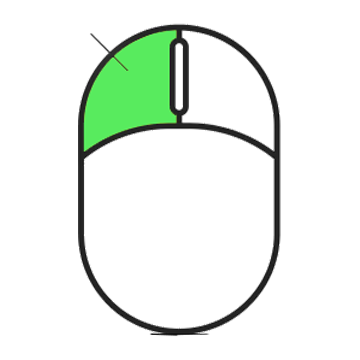
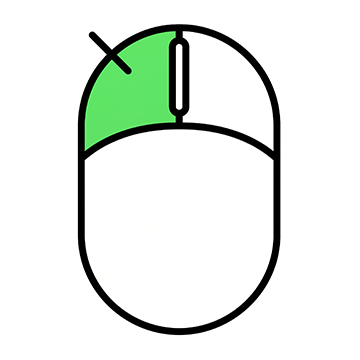
Adicionado portas no experimento do room preparation

Changed region(s): [[0.2139, 0.0611, 0.7944, 0.9472]]

diff --git a/src/mission/agent_dispatcher.py b/src/mission/agent_dispatcher.py
@@ -66,6 +66,16 @@ class AgentMissionDispatcher:
         if all(robot.state == RobotState.ACTING for robot in self.active_task.robots):
             self._update_action(delta_time)
 
+    def reset(self) -> None:
+        """Reinicia a fila da missão e o estado lógico do domínio."""
+        reset_domain = getattr(self.domain, "reset", None)
+        if callable(reset_domain):
+            reset_domain()
+        self.next_task_index = 0
+        self.active_task = None
+        self.completed = False
+        self.error_message = None
+
     def _start_next_task(self) -> None:
         if self.next_task_index >= len(self.task_keys):
             self.completed = True
@@ -78,17 +88,39 @@ class AgentMissionDispatcher:
         if errors or not robots:
             self._block("; ".join(errors) or "sem robôs elegíveis")
             return
+        self.active_task = ActiveTask(task_key, bound_task.task, robots)
+        self._move_to_current_action_target()
+
+    def _move_to_current_action_target(self) -> None:
+        """Leva os robôs ao ponto exigido pela ação atual da tarefa."""
+        assert self.active_task is not None
+        bound_task = self.bound_mission.tasks[self.active_task.task_key]
         location = self.environment.get_location_by_name(bound_task.location_name or "")
         if location is None:
             self._block(f"local indisponível: {bound_task.location_name}")
             return
 
-        self.active_task = ActiveTask(task_key, bound_task.task, robots)
-        for position_index, robot in enumerate(robots):
+        action = self.active_task.task.actions[self.active_task.action_index]
+        target = location
+        destination_name = location.name
+        if action.name == "open-door":
+            door_approach = self.environment.get_door_approach(location.name)
+            corridor = (
+                self.environment.get_location(pygame.Vector2(door_approach)) if door_approach is not None else None
+            )
+            if corridor is None:
+                self._block(f"porta sem acesso configurado: {location.name}")
+                return
+            target = Location(f"Porta de {location.name}", corridor.color, door_approach)
+            destination_name = target.name
+
+        for position_index, robot in enumerate(self.active_task.robots):
             robot.state = RobotState.MOVING
-            robot.current_task = f"Ir para {location.name}"
-            target = self._formation_target(location, position_index, len(robots), robot)
-            self.navigations[robot.label].set_target(target)
+            robot.current_task = f"Ir para {destination_name}"
+            formation_target = self._formation_target(
+                target, position_index, len(self.active_task.robots), robot
+            )
+            self.navigations[robot.label].set_target(formation_target)
 
     def _update_movement(self, delta_time: float) -> None:
         assert self.active_task is not None
@@ -132,7 +164,7 @@ class AgentMissionDispatcher:
             return
         self.active_task.action_index += 1
         if self.active_task.action_index < len(self.active_task.task.actions):
-            self._start_action()
+            self._move_to_current_action_target()
             return
         for robot in self.active_task.robots:
             robot.state = RobotState.IDLE
@@ -157,7 +189,7 @@ class AgentMissionDispatcher:
         for offset_x, offset_y in ordered_offsets:
             candidate = (location.center[0] + offset_x, location.center[1] + offset_y)
             same_location = self.environment.get_location(pygame.Vector2(candidate))
-            if same_location == location and self.environment.is_walkable(*candidate, robot.radius):
+            if same_location and same_location.color == location.color and self.environment.is_walkable(*candidate, robot.radius):
                 return Location(location.name, location.color, candidate)
         return location
 

diff --git a/src/scenarios.py b/src/scenarios.py
@@ -1,6 +1,6 @@
 """Catálogo de cenários disponíveis no simulador."""
 
-from dataclasses import dataclass
+from dataclasses import dataclass, field
 
 
 @dataclass(frozen=True)
@@ -29,6 +29,8 @@ class Scenario:
     robots: tuple[RobotDefinition, ...]
     location_aliases: dict[str, str]
     role_aliases: dict[str, tuple[str, ...]]
+    door_approaches: dict[str, tuple[int, int]] = field(default_factory=dict)
+    door_positions: dict[str, tuple[int, int]] = field(default_factory=dict)
 
 
 HOSPITAL_SCENARIO_1 = Scenario(
@@ -46,10 +48,10 @@ HOSPITAL_SCENARIO_1 = Scenario(
     wall_color=(52, 73, 94),
     accent_color=(190, 210, 220),
     robots=(
-        RobotDefinition("A-1", "Limpador", (120, 120), (52, 152, 219), frozenset({"cleaning", "door-opening", "sanitize"})),
-        RobotDefinition("A-2", "Limpador", (260, 120), (52, 152, 219), frozenset({"cleaning", "door-opening", "sanitize"})),
-        RobotDefinition("B-1", "Organizador", (120, 220), (155, 89, 182), frozenset({"moveobject"})),
-        RobotDefinition("B-2", "Organizador", (260, 220), (155, 89, 182), frozenset({"moveobject"})),
+        RobotDefinition("A-1", "Limpador", (70, 393), (52, 152, 219), frozenset({"cleaning", "door-opening", "sanitize"})),
+        RobotDefinition("A-2", "Limpador", (115, 393), (52, 152, 219), frozenset({"cleaning", "door-opening", "sanitize"})),
+        RobotDefinition("B-1", "Organizador", (160, 393), (155, 89, 182), frozenset({"moveobject"})),
+        RobotDefinition("B-2", "Organizador", (205, 393), (155, 89, 182), frozenset({"moveobject"})),
     ),
     location_aliases={
         "RoomA": "RoomA",
@@ -58,6 +60,18 @@ HOSPITAL_SCENARIO_1 = Scenario(
         "SanitizationRoom": "SanitizationRoom",
     },
     role_aliases={"CleanerRobot": ("Limpador",), "robotteam": ("Organizador",)},
+    door_approaches={
+        "RoomA": (320, 393),
+        "RoomB": (960, 393),
+        "RoomC": (320, 393),
+        "SanitizationRoom": (960, 393),
+    },
+    door_positions={
+        "RoomA": (320, 340),
+        "RoomB": (960, 340),
+        "RoomC": (320, 460),
+        "SanitizationRoom": (960, 460),
+    },
 )
 
 HOSPITAL_SCENARIO_2 = Scenario(
@@ -69,12 +83,14 @@ HOSPITAL_SCENARIO_2 = Scenario(
     wall_color=(52, 73, 94),
     accent_color=(190, 210, 220),
     robots=(
-        RobotDefinition("A-1", "Limpador", (120, 120), (52, 152, 219), frozenset({"cleaning", "door-opening", "sanitize"})),
-        RobotDefinition("A-2", "Limpador", (260, 120), (52, 152, 219), frozenset({"cleaning", "door-opening", "sanitize"})),
-        RobotDefinition("B-1", "Organizador", (120, 220), (155, 89, 182), frozenset({"moveobject"})),
+        RobotDefinition("A-1", "Limpador", (70, 393), (52, 152, 219), frozenset({"cleaning", "door-opening", "sanitize"})),
+        RobotDefinition("A-2", "Limpador", (115, 393), (52, 152, 219), frozenset({"cleaning", "door-opening", "sanitize"})),
+        RobotDefinition("B-1", "Organizador", (160, 393), (155, 89, 182), frozenset({"moveobject"})),
     ),
     location_aliases=HOSPITAL_SCENARIO_1.location_aliases,
     role_aliases=HOSPITAL_SCENARIO_1.role_aliases,
+    door_approaches=HOSPITAL_SCENARIO_1.door_approaches,
+    door_positions=HOSPITAL_SCENARIO_1.door_positions,
 )
 
 FARM = Scenario(

diff --git a/src/simulator.py b/src/simulator.py
@@ -57,6 +57,8 @@ class Simulator:
                 self.running = False
             elif event.type == pygame.KEYDOWN and event.key == pygame.K_ESCAPE:
                 self.running = False
+            elif event.type == pygame.KEYDOWN and event.key == pygame.K_r:
+                self._reset()
             elif event.type == pygame.KEYDOWN and event.key == pygame.K_UP:
                 self._select_robot(-1)
             elif event.type == pygame.KEYDOWN and event.key == pygame.K_DOWN:
@@ -81,6 +83,17 @@ class Simulator:
 
     def _erase_injected_obstacle(self, position: tuple[int, int]) -> None:
         self.environment.remove_injected_obstacle(position)
+
+    def _reset(self) -> None:
+        """Restaura robôs, rotas, bloqueios e missão ao estado inicial."""
+        self.environment.clear_injected_obstacles()
+        for robot, navigation in zip(self.robots, self.navigations):
+            robot.reset()
+            navigation.reset()
+        self.selected_robot_index = 0
+        self.simulation_speed_index = self.SIMULATION_SPEEDS.index(1.0)
+        if self.mission_dispatcher is not None:
+            self.mission_dispatcher.reset()
 
     @staticmethod
     def _load_control_icons(asset_directory: Path) -> dict[str, pygame.Surface]:
@@ -155,6 +168,7 @@ class Simulator:
 
     def _render(self) -> None:
         self.environment.draw(self.screen)
+        self._draw_doors()
         for robot, navigation in zip(self.robots, self.navigations):
             target = navigation.target
             target_point = pygame.Vector2(target.center) if target else None
@@ -166,6 +180,20 @@ class Simulator:
         self._draw_mission_status()
         self._draw_controls_hint()
         pygame.display.flip()
+
+    def _draw_doors(self) -> None:
+        """Desenha portas verdes (abertas) ou vermelhas (fechadas) no mapa."""
+        if self.mission_dispatcher is None:
+            return
+        is_door_open = getattr(self.mission_dispatcher.domain, "is_door_open", None)
+        if not callable(is_door_open):
+            return
+        for room_name, position in self.environment.scenario.door_positions.items():
+            color = (46, 204, 113) if is_door_open(room_name) else (231, 76, 60)
+            door = pygame.Rect(0, 0, 42, 14)
+            door.center = position
+            pygame.draw.rect(self.screen, color, door, border_radius=3)
+            pygame.draw.rect(self.screen, (52, 73, 94), door, 2, border_radius=3)
 
     def _draw_location_label(self) -> None:
         location = self.environment.get_location(self.selected_robot.position)
@@ -205,7 +233,7 @@ class Simulator:
     def _draw_controls_hint(self) -> None:
         text_color = (20, 35, 45)
         fragments: list[pygame.Surface] = [
-            self.font.render(f"Velocidade: {self.simulation_speed:g}x ", True, text_color),
+            self.font.render(f"R: Resetar | Velocidade: {self.simulation_speed:g}x ", True, text_color),
             self.control_icons["left"],
             self.control_icons["right"],
             self.font.render(" | Trocar robô: ", True, text_color),

diff --git a/src/domains/hospital/domain.py b/src/domains/hospital/domain.py
@@ -18,11 +18,21 @@ class HospitalMissionDomain:
     """Executa somente as regras que pertencem ao Hospital."""
 
     def __init__(self, world_knowledge: WorldKnowledge) -> None:
-        self.rooms = {
+        self._initial_rooms = {
             name: HospitalRoomState(room.is_clean, room.is_prepared, room.door_open)
             for name, room in world_knowledge.rooms.items()
         }
+        self.rooms: dict[str, HospitalRoomState] = {}
         self.robot_sanitized: dict[str, bool] = {}
+        self.reset()
+
+    def reset(self) -> None:
+        """Restaura as condições iniciais das salas e dos robôs."""
+        self.rooms = {
+            name: HospitalRoomState(room.is_clean, room.is_prepared, room.door_open)
+            for name, room in self._initial_rooms.items()
+        }
+        self.robot_sanitized.clear()
 
     def validate_task(self, task: MissionTask, robot_labels: tuple[str, ...]) -> list[str]:
         errors = []
@@ -69,6 +79,11 @@ class HospitalMissionDomain:
             f"{name}: clean={state.is_clean}, prepared={state.is_prepared}, door_open={state.door_open}"
             for name, state in self.rooms.items()
         ]
+
+    def is_door_open(self, room_name: str) -> bool:
+        """Informa se a porta da sala está aberta para a visualização."""
+        room = self.rooms.get(room_name)
+        return room.door_open if room is not None else False
 
     def _evaluate_predicate(self, predicate: str, robot_labels: tuple[str, ...]) -> bool:
         negated = predicate.startswith("not ")

diff --git a/src/environment.py b/src/environment.py
@@ -235,6 +235,11 @@ class Environment:
         self._refresh_injected_obstacles()
         return True
 
+    def clear_injected_obstacles(self) -> None:
+        """Remove todos os bloqueios temporários criados durante a simulação."""
+        self.injected_obstacles.clear()
+        self._refresh_injected_obstacles()
+
     def _refresh_injected_obstacles(self) -> None:
         """Reconstrói a colisão dinâmica sem modificar a máscara original."""
         self.collision_mask = self._base_collision_mask.copy()
@@ -407,3 +412,7 @@ class Environment:
         """Localiza uma sala ou corredor ignorando maiúsculas e minúsculas."""
         normalized_name = name.strip().casefold()
         return next((location for location in self.locations if location.name.casefold() == normalized_name), None)
+
+    def get_door_approach(self, location_name: str) -> tuple[int, int] | None:
+        """Retorna o ponto no corredor em frente à porta do local informado."""
+        return self.scenario.door_approaches.get(location_name)

diff --git a/src/robot.py b/src/robot.py
@@ -23,11 +23,20 @@ class Robot:
         self.label = definition.label
         self.role = definition.role
         self.position = pygame.Vector2(definition.start_position)
+        self.start_position = pygame.Vector2(definition.start_position)
         self.radius = 16
         self.speed = 220.0
         self.color = definition.color
         self.battery_capacity = definition.battery_capacity
         self.battery = definition.battery_capacity
+        self.state = RobotState.IDLE
+        self.current_task = "Sem tarefa"
+        self.action_progress = 0.0
+
+    def reset(self) -> None:
+        """Restaura o robô ao estado inicial do cenário."""
+        self.position = self.start_position.copy()
+        self.battery = self.battery_capacity
         self.state = RobotState.IDLE
         self.current_task = "Sem tarefa"
         self.action_progress = 0.0

diff --git a/src/behavior_tree.py b/src/behavior_tree.py
@@ -175,6 +175,14 @@ class NavigationController:
         """Cria um destino lógico temporário para um clique no mapa."""
         self.set_target(Location("Destino selecionado", (0, 0, 0), point))
 
+    def reset(self) -> None:
+        """Cancela a rota e limpa qualquer erro de navegação."""
+        self.blackboard.target_location = None
+        self.blackboard.contract_status = "IDLE"
+        self.context.waypoints.clear()
+        self.context.error_message = None
+        self.tree.root.stop(py_trees.common.Status.INVALID)
+
     def tick(self, delta_time: float) -> None:
         self.context.delta_time = delta_time
         self.tree.root.tick_once()
